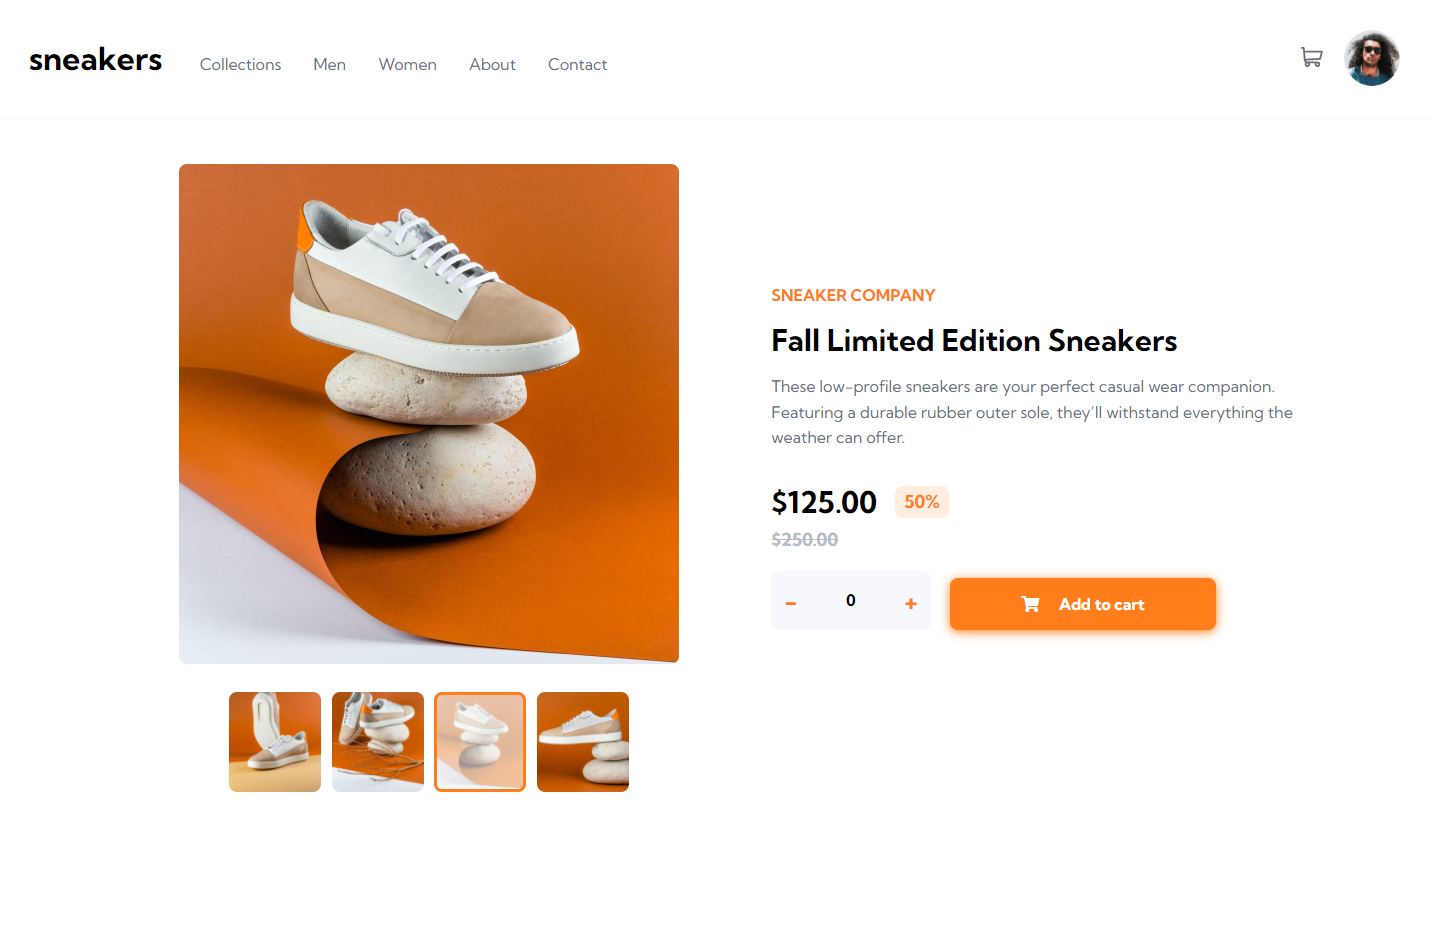
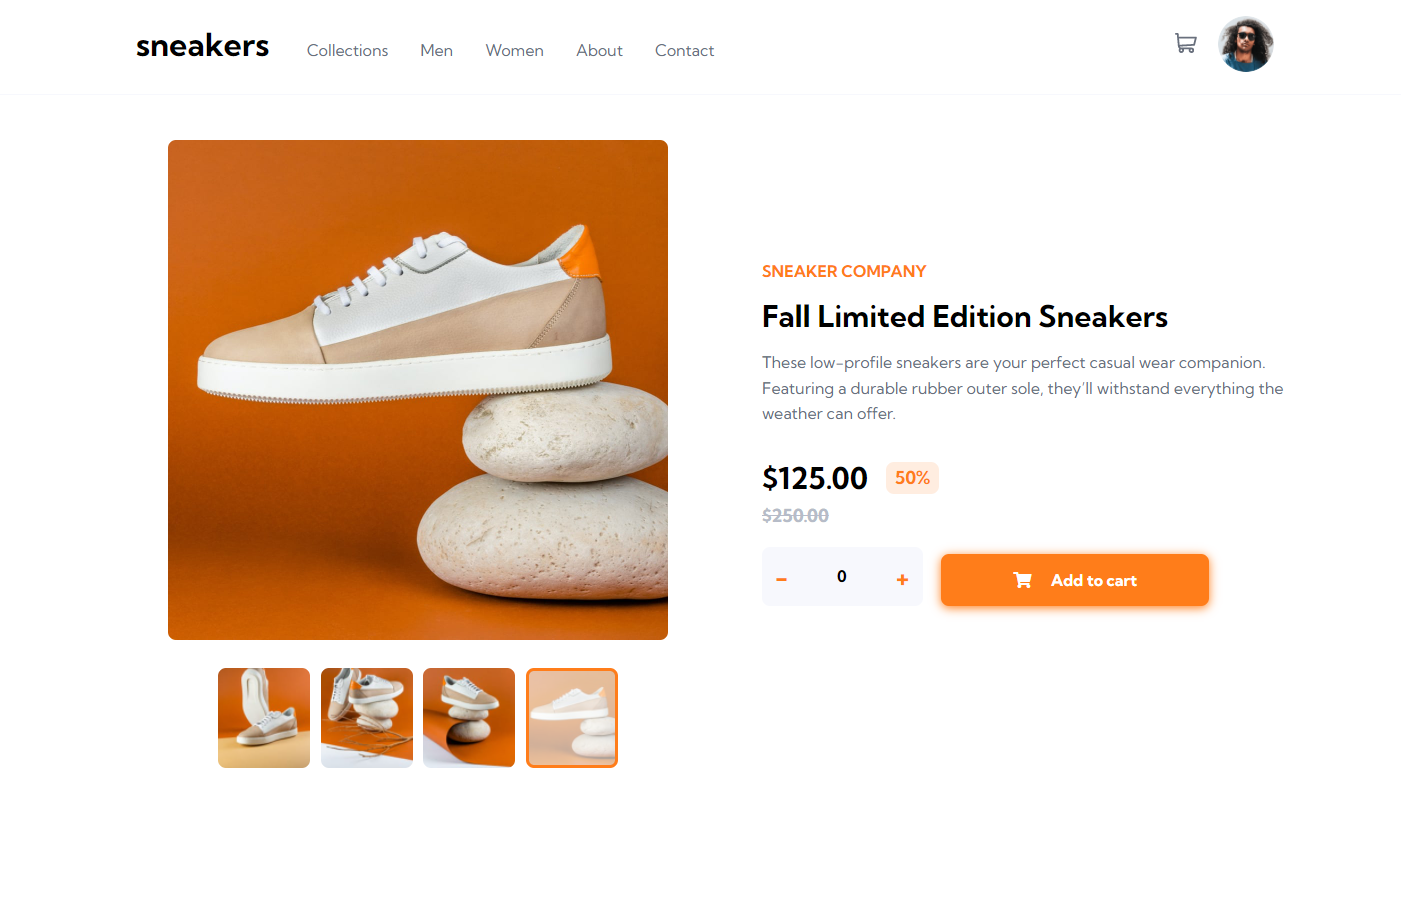
Update CSS file

diff --git a/sass/style.scss b/sass/style.scss
@@ -717,7 +717,7 @@ body {
 
 @media (min-width: 992px) {
     .header {
-        padding: 3em;
+        padding: 2em;
     }
 
     .container {
@@ -733,6 +733,8 @@ body {
 
 @media (min-width: 1200px) {
     .header {
+        padding: 2em 15em;
+
         &__logo {
             font-size: 3.2rem;
         }

diff --git a/css/style.css b/css/style.css
@@ -795,7 +795,7 @@ body {
 
 @media (min-width: 992px) {
   .header {
-    padding: 3em;
+    padding: 2em;
   }
   .container {
     margin-top: 5em;
@@ -806,6 +806,9 @@ body {
 }
 
 @media (min-width: 1200px) {
+  .header {
+    padding: 2em 15em;
+  }
   .header__logo {
     font-size: 3.2rem;
   }
